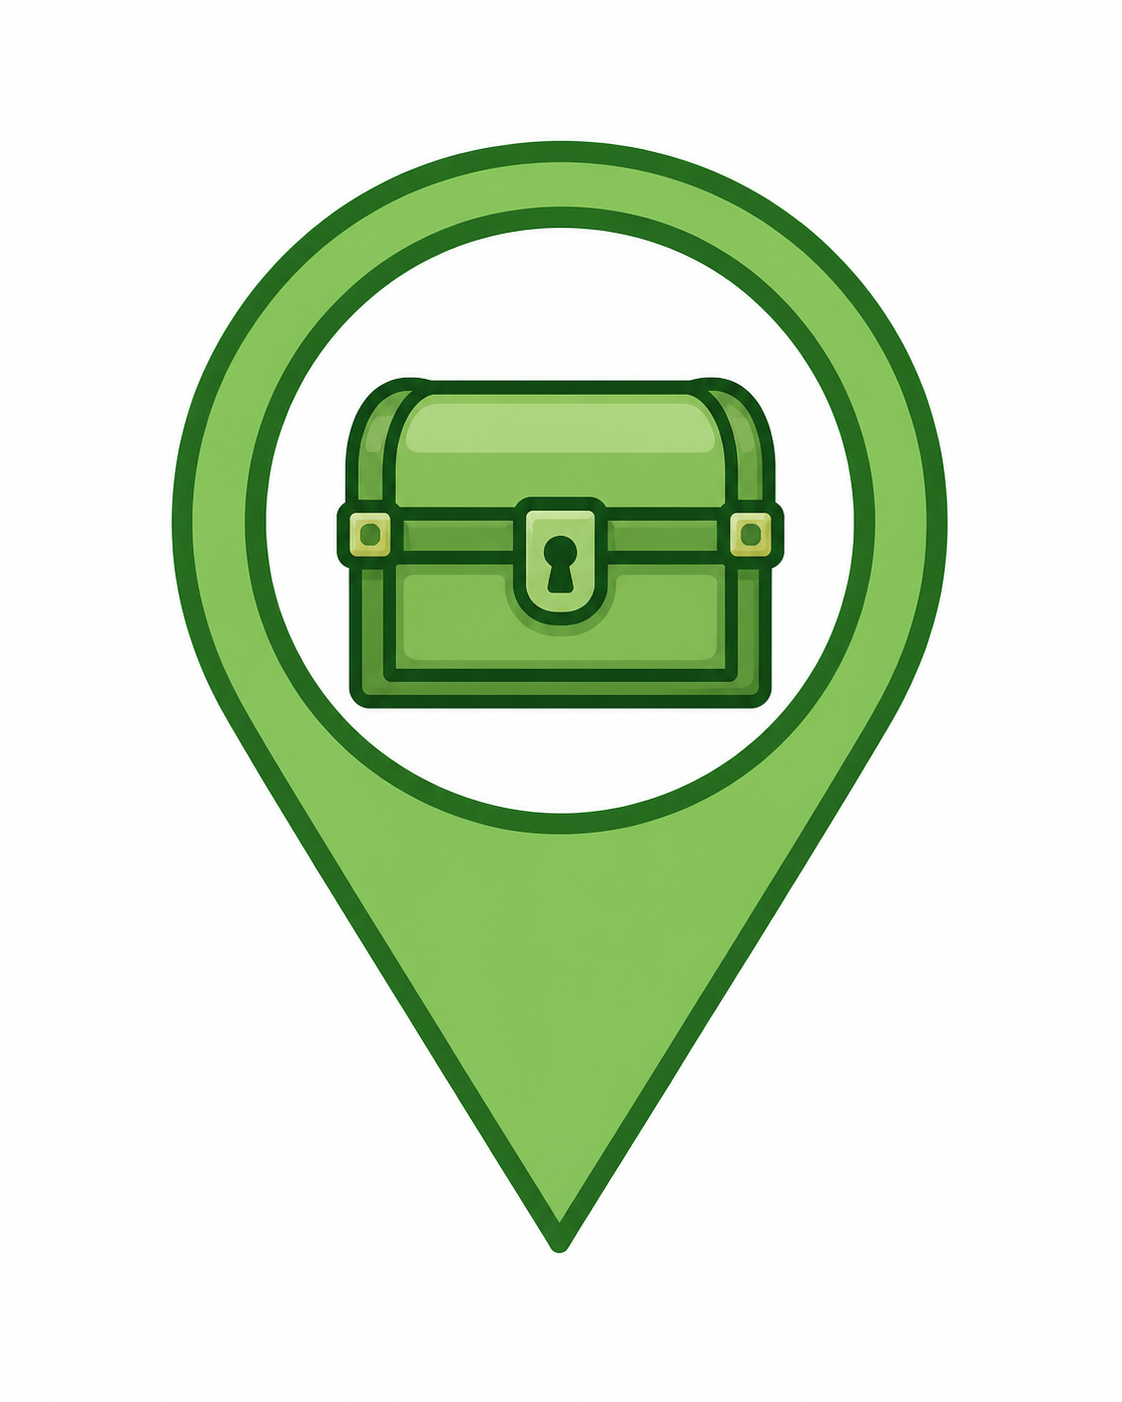
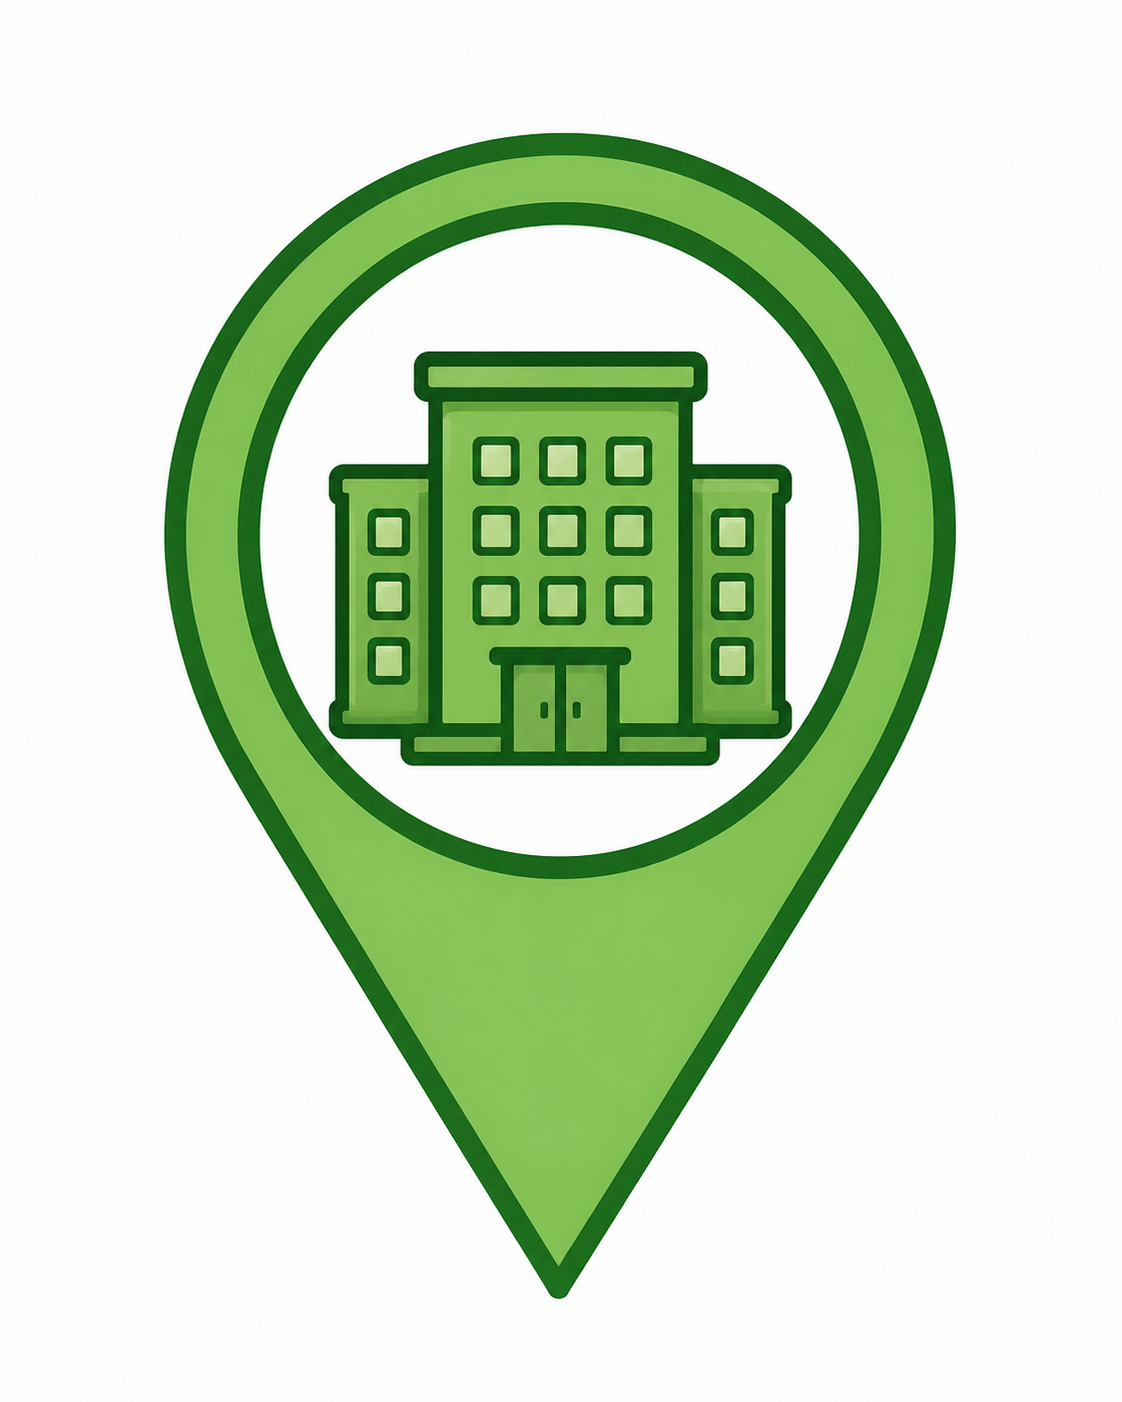
Imagem posto

diff --git a/src/pages/PerfilPage.tsx b/src/pages/PerfilPage.tsx
@@ -616,7 +616,6 @@ export default function PerfilPage() {
                 onChange={handleChange}
                 placeholder="Nome"
               />
-
               <input
                 type="email"
                 name="email"
@@ -624,9 +623,7 @@ export default function PerfilPage() {
                 onChange={handleChange}
                 placeholder="Email"
               />
-
               <div className="perfil-edit-buttons">
-
                 <button
                   className="perfil-salvar-btn"
                   onClick={salvar}